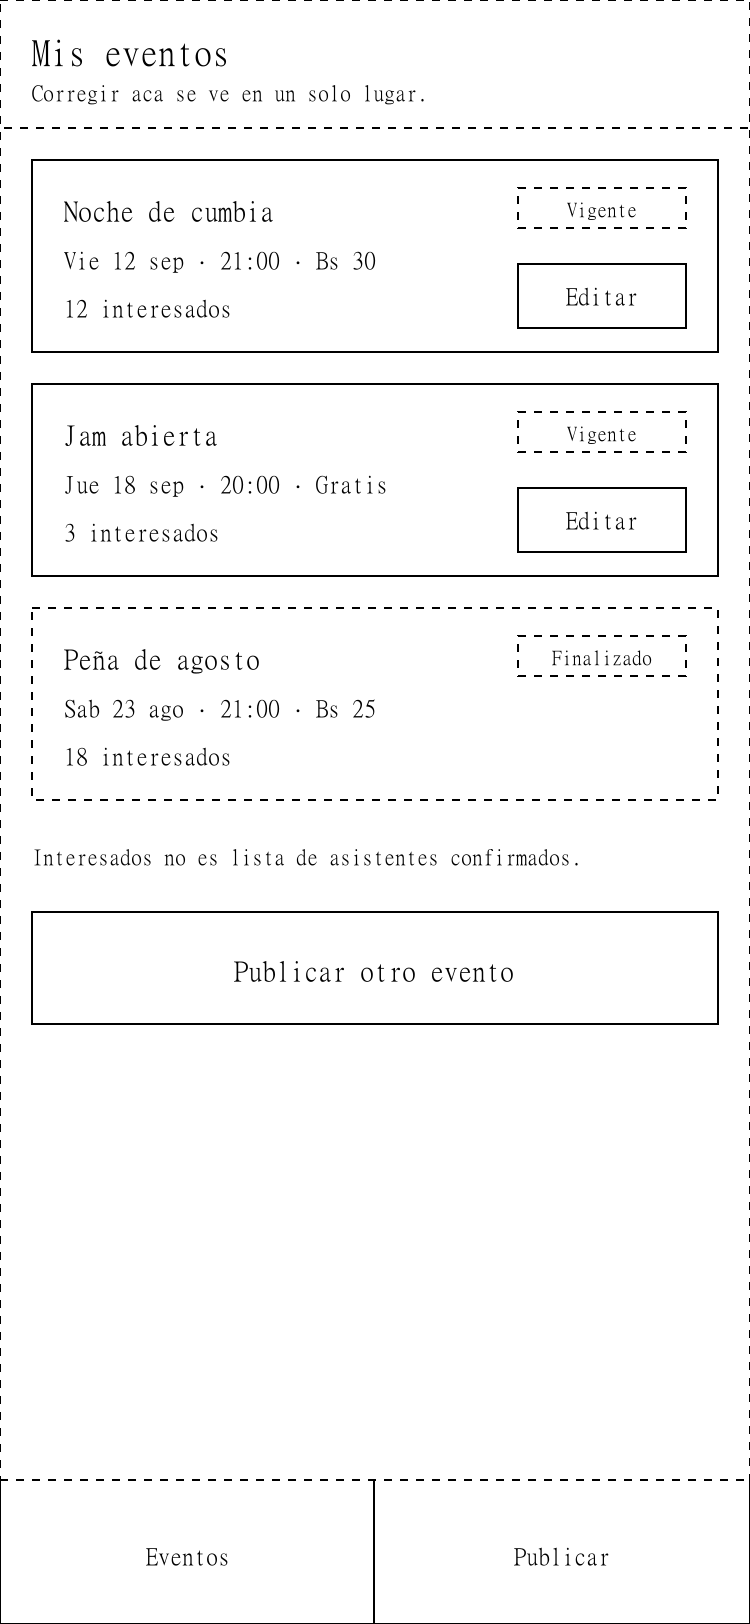
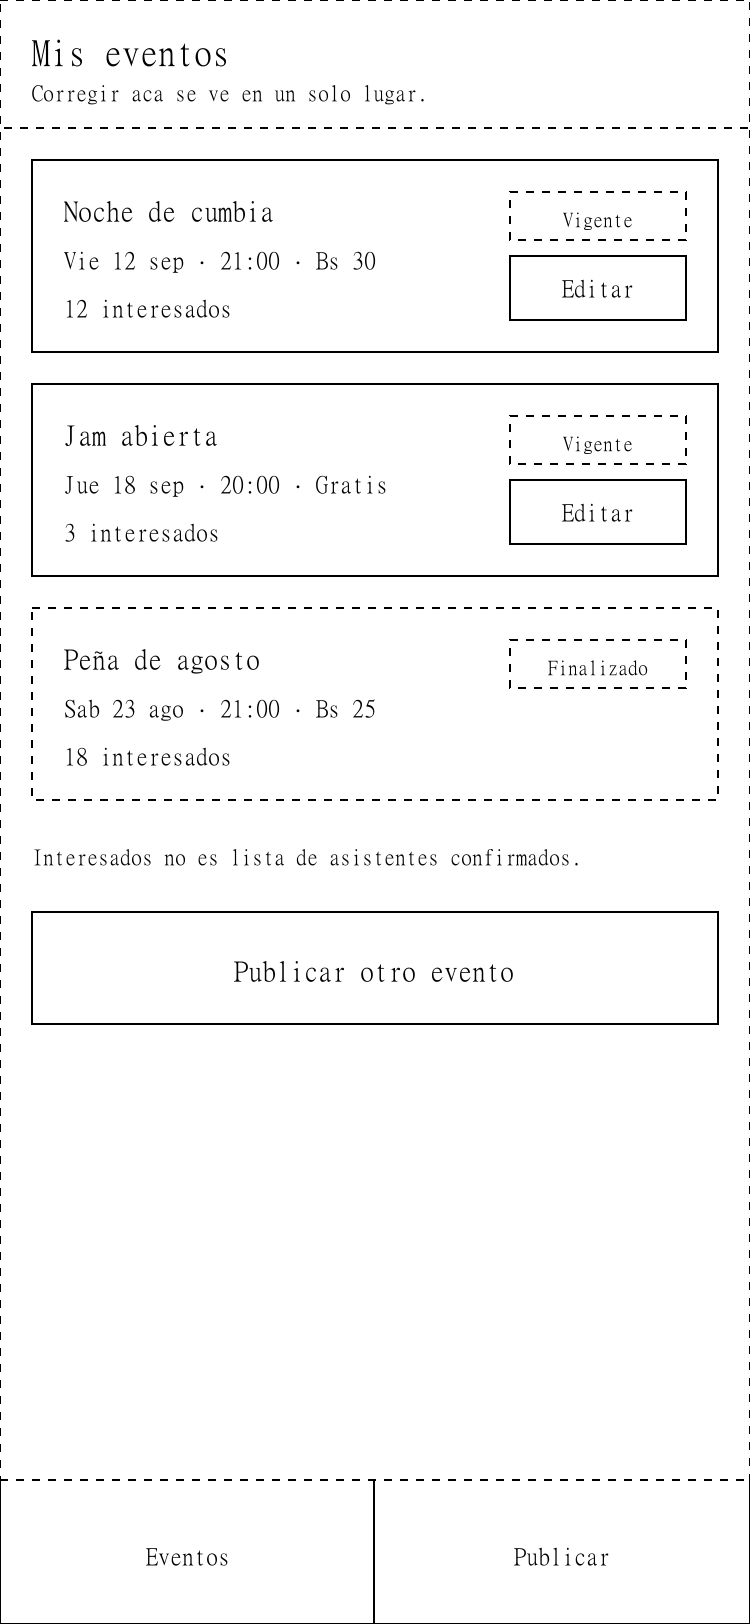
fix(wireframes): corregir medidas fuera de la escala base 8
El README afirmaba que todas las medidas eran multiplos de 8 y no era
cierto: los campos de formulario estaban en 44 y los indicadores de
vigencia en 84 x 20.

- Campo de formulario 44 -> 48
- Indicador de vigencia 84 x 20 -> 88 x 24
- Boton "Editar" de Mis eventos 84 x 32 -> 88 x 32
- Se reacomodaron 04-publicar y 06-editar con pitch de 96 entre campos
- Se actualizaron las zonas enlazadas del prototipo a las nuevas
  coordenadas

El README ahora distingue las medidas de espaciado (todas multiplos de
8) del ancho de pantalla 375 y el contenido 343, que salen del
dispositivo y de los margenes, no de la escala.

Se agrega bitacora/clase-05-jerarquia-layout-espaciado.md con el
registro Antes / Cambio / Despues / Siguiente. Despues y Siguiente
quedan pendientes: falta probar la tarea con una persona.

diff --git a/wireframes/prototipo.html b/wireframes/prototipo.html
@@ -154,7 +154,7 @@ const SCREENS = {
     title: "Publicar evento",
     caption: "Formulario corto: solo los campos que la tarjeta necesita para compararse. Si cuesta mas que una historia de Instagram, no se adopta.",
     hotspots: [
-      { x: 16, y: 524, w: 343, h: 56, to: "05", label: "Publicar" },
+      { x: 16, y: 600, w: 343, h: 56, to: "05", label: "Publicar" },
       { x: 0, y: 740, w: 187, h: 72, to: "01", label: "Eventos" }
     ]
   },
@@ -164,8 +164,8 @@ const SCREENS = {
     title: "Mis eventos",
     caption: "El organizador ve vigencia e interesados donde ya administra. El numero no es una lista de asistentes confirmados.",
     hotspots: [
-      { x: 259, y: 132, w: 84, h: 32, to: "06", label: "Editar" },
-      { x: 259, y: 244, w: 84, h: 32, to: "06", label: "Editar" },
+      { x: 255, y: 128, w: 88, h: 32, to: "06", label: "Editar" },
+      { x: 255, y: 240, w: 88, h: 32, to: "06", label: "Editar" },
       { x: 16, y: 456, w: 343, h: 56, to: "04", label: "Publicar otro" },
       { x: 0, y: 740, w: 187, h: 72, to: "01", label: "Eventos" }
     ]
@@ -177,7 +177,7 @@ const SCREENS = {
     caption: "El paso que justifica la app. El campo modificado tiene mas peso visual. Corregir aca evita repetir el dato en cada canal.",
     hotspots: [
       { x: 0, y: 0, w: 375, h: 64, to: "05", label: "Mis eventos" },
-      { x: 16, y: 408, w: 343, h: 56, to: "05", label: "Guardar cambios" },
+      { x: 16, y: 472, w: 343, h: 56, to: "05", label: "Guardar cambios" },
       { x: 0, y: 740, w: 187, h: 72, to: "05", label: "Eventos" }
     ]
   },

diff --git a/bitacora/clase-05-jerarquia-layout-espaciado.md b/bitacora/clase-05-jerarquia-layout-espaciado.md
@@ -1,0 +1,133 @@
+# Clase 5 — Jerarquía, layout y espaciado
+
+**Proyecto:** App de eventos en Santa Cruz de la Sierra
+**Fecha:** 27/08/2026
+**Pantalla auditada:** Lista de eventos (inicio) y Detalle del evento
+**Código:** `proy-1-mvp/app/` (Flutter)
+**Wireframes:** `wireframes/`
+
+---
+
+## La auditoría, paso a paso
+
+### 1. Nombrar el momento
+
+> **La persona está comparando** opciones para el fin de semana, todavía sin plan, y necesita descartar rápido.
+
+En el detalle el momento es otro: **está verificando** una opción antes de mandarla al grupo.
+
+### 2. Ordenar prioridades
+
+| Nivel | Lista de eventos | Detalle del evento |
+|---|---|---|
+| 1 · Orientar | Día y hora del evento | Nombre del evento y su vigencia |
+| 2 · Informar | **Precio**, después lugar y distancia | Precio, cuándo, dónde |
+| 3 · Actuar | Tocar la tarjeta | Compartir al grupo |
+
+### 3. Detectar grupos
+
+- **Tarjeta:** día/hora + vigencia se leen juntos · nombre solo · precio + lugar juntos (los dos datos de descarte) · interesados aparte, es apoyo.
+- **Detalle:** los cuatro datos son un bloque · el aviso de interés es otro · las dos acciones son otro.
+
+### 4. La mejora elegida
+
+> **Unificar el espaciado en una escala de base 8 y aplicarla a la lista y al detalle.**
+
+---
+
+## Antes
+
+La jerarquía de la aplicación ya estaba resuelta y documentada: el precio es lo más pesado de la tarjeta, la tarjeta no lleva imagen, el interés es un número y nunca una lista de nombres. Eso no era el problema.
+
+**El problema era el espaciado.** Cada pantalla elegía sus distancias por separado. Medidas encontradas en el código antes del cambio:
+
+| Archivo | Distancias sueltas |
+|---|---|
+| `widgets/event_card.dart` | 14, 12, 10, 8, 6, 4 · radio 14 · ícono 15 |
+| `widgets/validity_badge.dart` | 8, 4 · ícono 14 |
+| `events_list_page.dart` | 16, 12, 10, 8, 32, 20 · ancho de botón 140 |
+| `event_detail_page.dart` | 20, 14, 12, 10, 8, 4, 2 · radio 14 |
+
+Diez valores distintos de espaciado conviviendo. Ninguno estaba *mal* por separado: el problema es que **la distancia no significaba nada**. Dos elementos a 10 px y otros dos a 12 px se leen igual de relacionados, así que el espacio dejaba de comunicar qué pertenece a qué.
+
+Además el margen lateral no era el mismo en las dos pantallas: la lista usaba 16 y el detalle 20, así que el contenido se corría al navegar entre una y otra.
+
+---
+
+## Cambio
+
+**En el código** — `proy-1-mvp/app/lib/ui/spacing.dart`, archivo nuevo:
+
+```dart
+abstract final class AppSpacing {
+  static const double half = 4;   // se lee como una sola unidad
+  static const double s1 = 8;     // dentro de un grupo
+  static const double s2 = 16;    // contenido relacionado, margen lateral
+  static const double s3 = 24;    // entre grupos
+  static const double s4 = 32;    // entre secciones
+
+  static const double radiusS = 8;
+  static const double radiusM = 16;
+  static const double radiusPill = 999;
+}
+```
+
+Aplicado en cinco archivos: `theme.dart`, `events_list_page.dart`, `event_detail_page.dart`, `widgets/event_card.dart`, `widgets/validity_badge.dart`. **No queda ninguna distancia escrita a mano en esos archivos.**
+
+Cambios con efecto visible:
+
+| Qué | Antes | Ahora | Por qué |
+|---|---|---|---|
+| Margen lateral del detalle | 20 | 16 | Igual que la lista: el contenido deja de correrse al navegar |
+| Separación entre tarjetas | 10 | 16 | Cada tarjeta es una opción distinta, no parte de un bloque |
+| Nombre → precio en la tarjeta | 10 | 16 | Separa el "qué es" del "cuánto sale" |
+| Etiqueta → valor en el detalle | 2 | 4 | Se leen como una sola unidad, sin quedar pegados |
+| Ícono → texto, en toda la app | 4, 6 y 12 | 8 | Una sola regla, explicable en una frase |
+| Radio de tarjetas | 14 | 16 | El redondeo también entra en la escala |
+
+**En Figma** — los siete wireframes de `wireframes/svg/` usan la misma escala. Se corrigieron los campos de formulario (44 → 48) y los indicadores de vigencia (84 × 20 → 88 × 24), que eran las dos medidas fuera de escala que quedaban.
+
+**Verificación:** `flutter analyze` → *No issues found!*
+
+---
+
+## Después
+
+> **PENDIENTE.** Hay que probar la tarea con una persona antes de llenar esta sección.
+
+Cómo hacerlo:
+
+1. Abrir la app en la lista de eventos. **No explicar nada.**
+2. Dar una tarea, no una instrucción: *"Necesitás salir el viernes con menos de Bs 40. Mandale una opción a tu grupo."*
+3. Observar y **anotar lo que hace**, no lo que opina. Las preguntas van después, nunca durante.
+
+Qué registrar:
+
+- [ ] ¿Sabe dónde empieza?
+- [ ] ¿Reconoce el precio sin abrir el evento?
+- [ ] ¿Distingue la acción principal en el detalle?
+- [ ] ¿Entiende qué pasó después de tocar "Compartir"?
+- [ ] ¿Busca algo en un lugar donde no está?
+- [ ] ¿Lee "Me interesa" como un compromiso de asistir?
+
+Formato de la observación: *"Buscó la fecha debajo de la lista de cuidados."* — un hecho, no una interpretación.
+
+---
+
+## Siguiente
+
+> **PENDIENTE hasta tener la prueba.**
+
+Lo que ya está identificado para mirar:
+
+- **Riesgo de la escala:** separar las tarjetas a 16 en vez de 10 hace que entre **menos** contenido en pantalla. El equipo sostiene en `OQ-8` que entran cuatro tarjetas completas. Hay que confirmar que sigue siendo cierto en un teléfono real, porque es lo que sostiene que la comparación ocurra en la lista.
+- **`OQ-3` sigue abierta:** el contador se muestra siempre, sin umbral. Falta ver si un evento con 2 interesados aporta o desinforma.
+- **`OQ-10` sigue abierta:** falta comprobar si "Vigente", "Actualizado" y "Cancelado" se entienden sin que nadie las explique.
+
+---
+
+## Historial de versiones
+
+| Versión | Fecha | Cambios |
+|---|---|---|
+| v0.1 | 27/08/2026 | Auditoría de lista y detalle, escala de espaciado base 8 aplicada en Figma y en código |

diff --git a/wireframes/README.md b/wireframes/README.md
@@ -90,7 +90,9 @@ Cada pantalla ordena la atención en tres niveles, como pide la clase:
 | **24 px** | Grupos distintos dentro de la misma pantalla |
 | **32 px** | Secciones o momentos distintos de la tarea |
 
-Medidas fijas derivadas: ancho 375, margen 16, contenido 343, header 64, acción principal 56, campo 44, barra inferior 72. **Todas son múltiplos de 8.**
+**Medidas de los componentes, todas múltiplos de 8:** header 64 · barra inferior 72 · acción principal 56 · campo de formulario 48 · acción secundaria 48 · chip de filtro 40 · tarjeta de evento 112 · fila de "Mis eventos" 96 · indicador de vigencia 88 × 24.
+
+**Dos medidas que no son múltiplos de 8, y el motivo:** el ancho de pantalla es **375** porque lo fija el dispositivo, no nosotros; y el ancho de contenido es **343** porque sale de restarle los dos márgenes de 16. Ninguna de las dos es una decisión de espaciado.
 
 Equivalente en CSS, para cuando esto pase al código:
 
